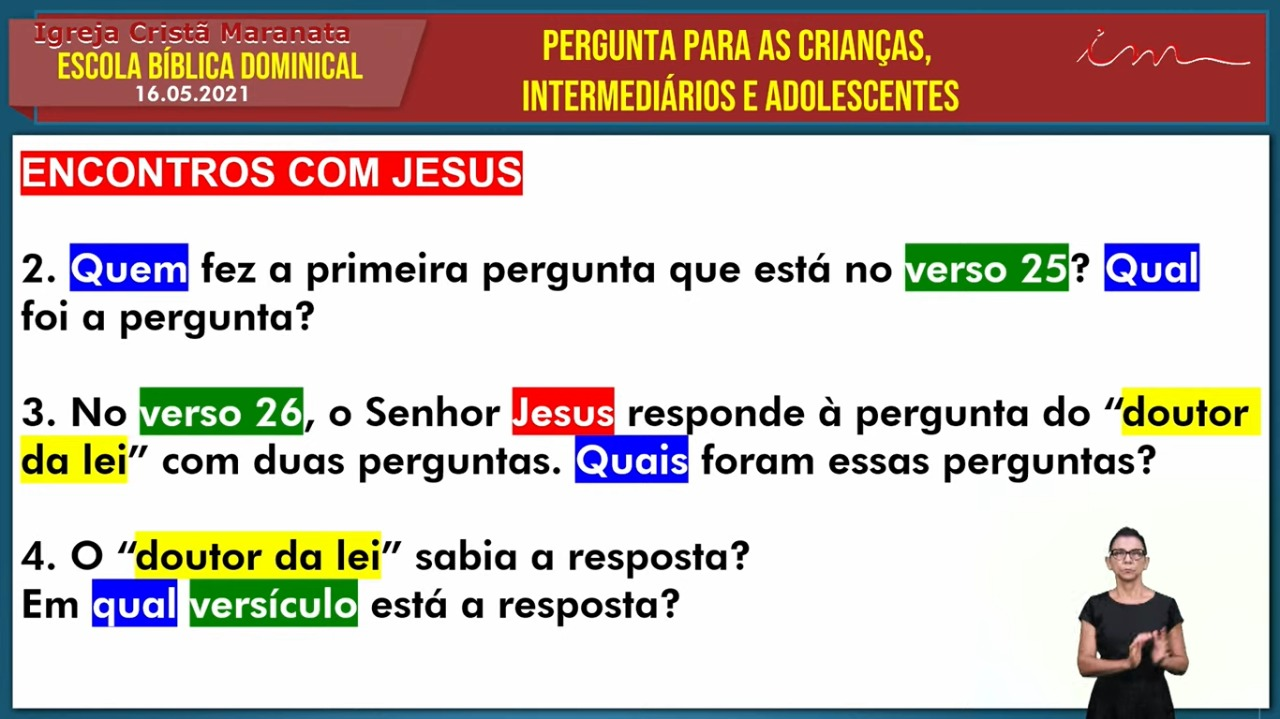
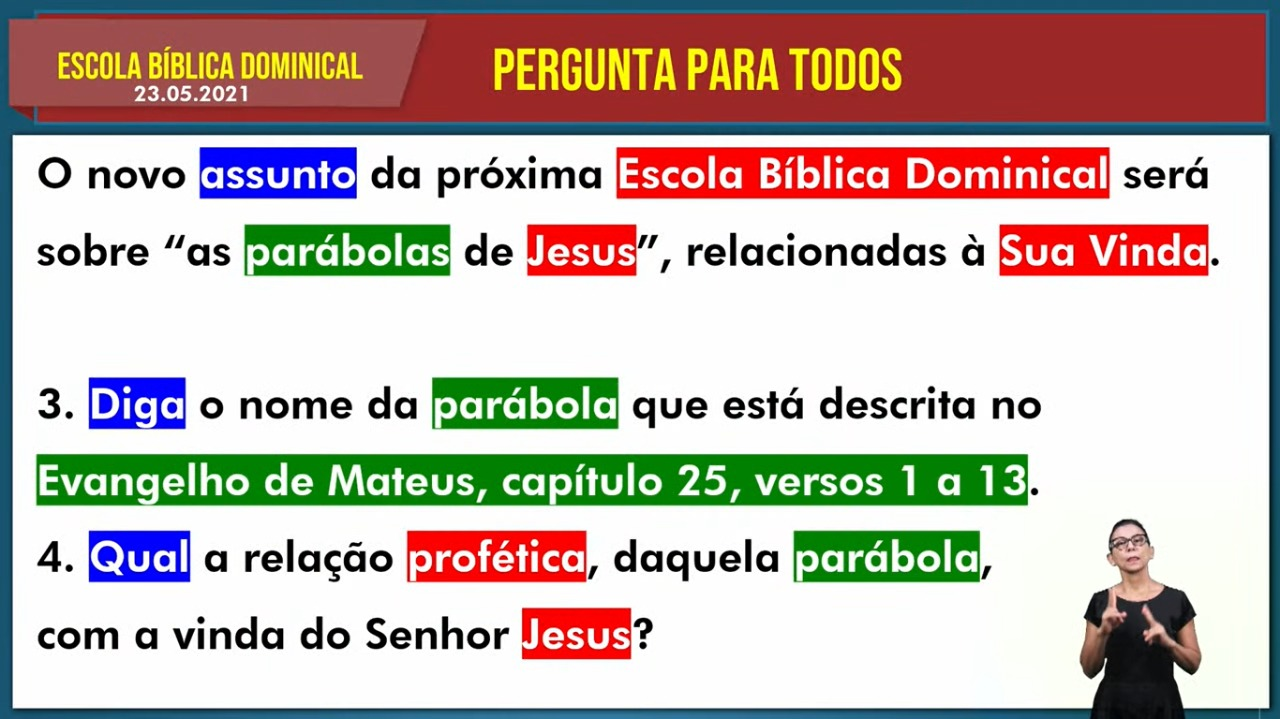
atlz 15/05

diff --git a/index.html b/index.html
@@ -109,10 +109,10 @@
     </div>
     <div class="masthead-content">
       <div class='embed-container d-lg-none'>
-        <iframe width="560" height="315" src="https://www.youtube.com/embed/1LmV0PXMl0k?v=12" frameborder="0" allow="accelerometer; autoplay; clipboard-write; encrypted-media; gyroscope; picture-in-picture" allowfullscreen></iframe>
+        <iframe width="560" height="315" src="https://www.youtube.com/embed/vccFxKkNbEA?v=13" frameborder="0" allow="accelerometer; autoplay; clipboard-write; encrypted-media; gyroscope; picture-in-picture" allowfullscreen></iframe>
       </div>
       <div class='d-none d-lg-block'>
-        <iframe width="560" height="315" src="https://www.youtube.com/embed/1LmV0PXMl0k?v=12" frameborder="0" allow="accelerometer; autoplay; clipboard-write; encrypted-media; gyroscope; picture-in-picture" allowfullscreen></iframe>
+        <iframe width="560" height="315" src="https://www.youtube.com/embed/vccFxKkNbEA?v=13" frameborder="0" allow="accelerometer; autoplay; clipboard-write; encrypted-media; gyroscope; picture-in-picture" allowfullscreen></iframe>
       </div>
       <div class="p-5">
         <button type="button" onclick="location.href='https://www.igrejacristamaranata.org.br/ebd/participacoes/';" class="btn btn-danger d-lg-none">Envie sua contribuição!</button>
@@ -148,25 +148,19 @@
             <div class="carousel-inner w-100 mx-auto">          
               <div class="carousel-item active">
                 <div class="card">
-                  <img class="card-img-top img-fluid" src="assets/images/perguntas/1.jpeg?v=14" alt="Card image cap">
+                  <img class="card-img-top img-fluid" src="assets/images/perguntas/1.jpeg?v=15" alt="Card image cap">
                 </div>
               </div>
 
               <div class="carousel-item">
                 <div class="card">
-                  <img class="card-img-top img-fluid" src="assets/images/perguntas/2.jpeg?v=14" alt="Card image cap">
+                  <img class="card-img-top img-fluid" src="assets/images/perguntas/2.jpeg?v=15" alt="Card image cap">
                 </div>
               </div>
 
               <div class="carousel-item">
                 <div class="card">
-                  <img class="card-img-top img-fluid" src="assets/images/perguntas/3.jpeg?v=14" alt="Card image cap">
-                </div>
-              </div>
-
-              <div class="carousel-item">
-                <div class="card">
-                  <img class="card-img-top img-fluid" src="assets/images/perguntas/4.jpeg?v=14" alt="Card image cap">
+                  <img class="card-img-top img-fluid" src="assets/images/perguntas/3.jpeg?v=15" alt="Card image cap">
                 </div>
               </div>
 
